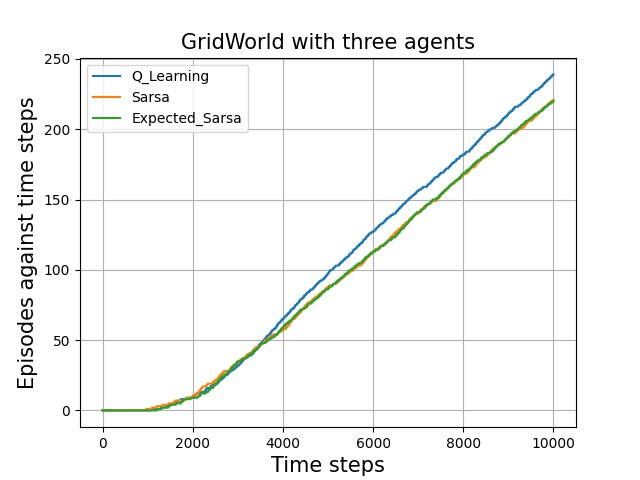
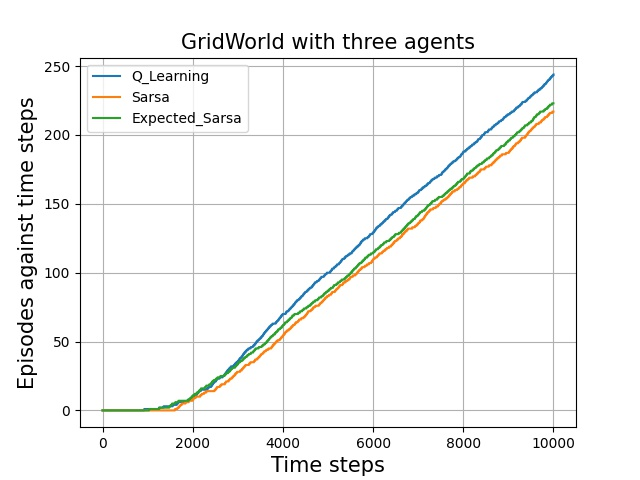
averaging over random seed added

Changed region(s): [[0.0625, 0.1562, 0.9062, 0.875], [0.0625, 0.25, 0.125, 0.3125], [0.0625, 0.0938, 0.125, 0.1562]]

diff --git a/cs747-pa-3/windgrid_sarsa_Esarsa_QL.py b/cs747-pa-3/windgrid_sarsa_Esarsa_QL.py
@@ -6,7 +6,7 @@ import numpy as np
 # top-left is (r=0,c=0)
 start_time = time()
 def plot(x,y, title,x_lab, y_lab,savename):
-	# plt.clf()
+	plt.clf()
 	plt.plot(x, y)
 	plt.title(title)
 	plt.xlabel(x_lab)
@@ -74,11 +74,8 @@ class GridWorld(object):
 			self.c = start[1]
 			reward = 10
 			self.reached_end += 1
-
 			self.steps_for_eps[i] = self.steps_for_to_end
 			self.steps_for_to_end = 0
-			# print('#'*20, "Reached end state", '#'*20 )
-			# self.get_current_status()
 
 		next_s = {"r":self.r, "c":self.c}
 		return next_s, reward
@@ -159,19 +156,26 @@ if __name__ == '__main__':
 	alpha = 0.5
 	epsilon = 0.1
 	# algo = "q_learning"
-	# algo = "sarsa"
-	algo = "exp_q_learn"
+	algo = "sarsa"
+	# algo = "exp_q_learn"
 
 	world = GridWorld(height,width,start,end, wind_vector,num_actions,alpha,epsilon)
 	episodes, steps_for_eps = world.find_path(steps, algo)
 	# plot(x,y, title,x_lab, y_lab,savename)
 	# plot(range(steps), episodes, "Episodes against time steps","Time steps", "Episodes", f"{algo}_episodes_vs_time_alp:{alpha:.2f}_eps:{epsilon:.2f}_score:{episodes[-1]}.jpg")
-	# plot(range(steps), steps_for_eps, "Steps taken for completing a episode against time steps","Time steps", "Steps taken for completing a episode", f"steps_taken_vs_time_alp:{alpha}_eps:{epsilon}.jpg")
+	plot(range(steps), steps_for_eps, "Steps taken for completing a episode against time steps","Time steps", "Steps taken for completing a episode", f"steps_taken_vs_time_alp:{alpha}_eps:{epsilon}.jpg")
 	plot_dicts = {}
 	for algo in ["q_learning","sarsa","exp_q_learn"]:
-		world = GridWorld(height,width,start,end, wind_vector,num_actions,alpha,epsilon)
-		episodes, steps_for_eps = world.find_path(steps, algo)		
-		plot_dicts[algo] = episodes
+		for randomseed in range(1,11):
+			np.random.seed(randomseed)
+			world = GridWorld(height,width,start,end, wind_vector,num_actions,alpha,epsilon)
+			episodes, steps_for_eps = world.find_path(steps, algo)		
+			if randomseed == 1:
+				plot_dicts[algo] = episodes
+			plot_dicts[algo] += episodes
+			if randomseed == 10:
+				plot_dicts[algo] /= 10
+
 
 	x = range(steps)
 	plt.plot(x, plot_dicts["q_learning"], label='Q_Learning')
@@ -182,6 +186,6 @@ if __name__ == '__main__':
 	plt.ylabel("Episodes against time steps", fontsize=15)
 	plt.legend(loc=2, prop={'size': 10})
 	plt.grid()
-	plt.savefig("task5.jpg")
+	plt.savefig("randomseed_task5.jpg")
 	print(f'total_time taken: {(time()- start_time)//3600} hrs {(time()- start_time)%3600//60} min {int((time()- start_time)%60)} sec')
 	

diff --git a/cs747-pa-3/combine_code.py b/cs747-pa-3/combine_code.py
@@ -56,7 +56,7 @@ class GridWorld(object):
 	def get_next_s_r_8_actions(self, action,i):
 		wind_action = self.wind_vector[self.c]
 		self.r = self.r + wind_action
-		if self.stochastic:
+		if (self.stochastic) and (wind_action != 0) :
 			self.r += np.random.choice([-1,1,0],1)		
 		if "N" in action:
 			self.r -= 1
@@ -222,15 +222,20 @@ if __name__ == '__main__':
 	width = 10
 	wind_vector = -np.array([0,0,0,1,1,1,2,2,1,0])
 	stochastic = args.stochastic
-	num_actions = args.num_actions
-	steps = args.steps
-	alpha = args.alpha
-	epsilon = args.epsilon
+	num_actions = int(args.num_actions)
+	steps = int(args.steps)
+	alpha = float(args.alpha)
+	epsilon = float(args.epsilon)
 	algo = args.algorithm
-	world = GridWorld(height,width,start,end, wind_vector,num_actions,alpha,epsilon,stochastic)
-	episodes, steps_for_eps = world.find_path(steps,algo)
+	total_eps = 0
+	for randomseed in range(1,11):
+		np.random.seed(randomseed)	
+		world = GridWorld(height,width,start,end, wind_vector,num_actions,alpha,epsilon,stochastic)
+		episodes, steps_for_eps = world.find_path(steps,algo)
+		total_eps += episodes
 	# plot(x,y, title,x_lab, y_lab,savename)
-	plot(range(steps), episodes, f"Episodes against time steps\nactions:{num_actions},alpha:{alpha},eps:{epsilon},max_episodes:{int(episodes[-1])}\nstochastic:{stochastic},algorithm:{algo}","Time steps", "Episodes", f"episodes_vs_time_action.jpg")
+	episodes = total_eps/10
+	plot(range(steps), episodes, f"Episodes against time steps\nactions:{num_actions},alpha:{alpha},eps:{epsilon},max_episodes:{int(episodes[-1])}\nstochastic:{stochastic},algorithm:{algo}","Time steps", "Episodes", f"episodes_vs_time_actions:{num_actions},stochastic:{stochastic},algorithm:{algo}.jpg")
 	# plot(range(steps), steps_for_eps, f"Steps taken for completing a episode against time steps;actions{num_actions}","Time steps", "Steps taken for completing a episode", f"episodes_vs_time_alp:{alpha:.2f}_eps:{epsilon:.2f}_score:{np.min(steps_for_eps[np.nonzero(steps_for_eps)])}.jpg")
 	print(f'total_time taken: {(time()- start_time)//3600} hrs {(time()- start_time)%3600//60} min {int((time()- start_time)%60)} sec')
 	
